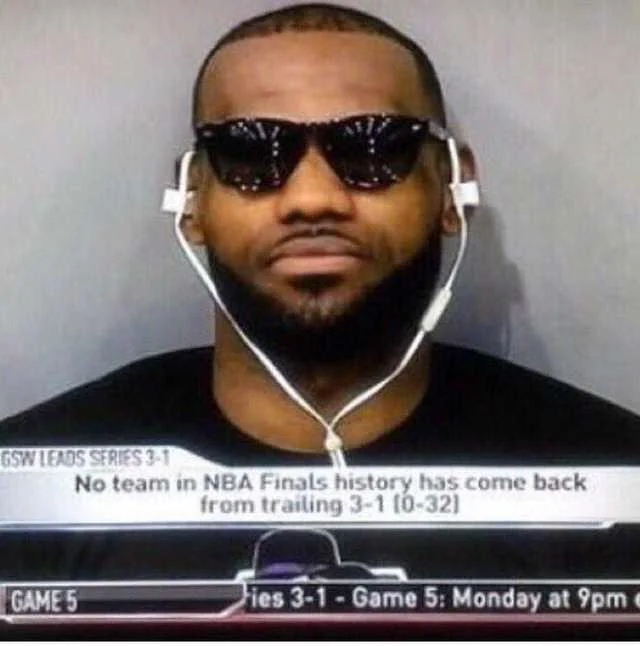
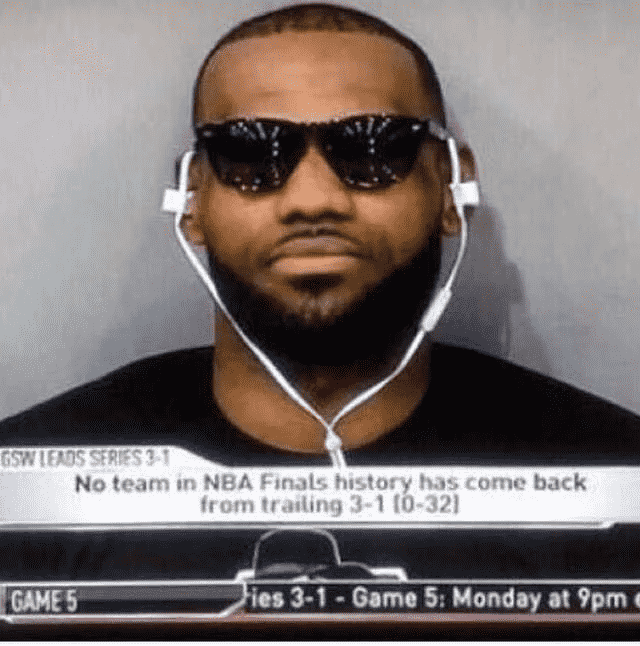
updated photo sizes and added SEO related content to HTML

diff --git a/index.html b/index.html
@@ -4,7 +4,18 @@
 <head>
 	<meta charset="utf-8" />
 	<meta name="viewport" content="width=device-width" />
-	<title>Vibes to Strides || My Programming Journey</title>
+
+	<title>Lucas Colias</title>
+	<meta name="description"
+		content="Portfolio of Lucas Colias, Full Stack Engineer specializing in embedded systems, web applications, and software reliability. Explore projects, experience, and contact info." />
+	<meta name="author" content="Lucas Colias" />
+
+	<!-- Open Graph / Social Sharing -->
+	<meta property="og:title" content="Lucas Colias" />
+	<meta property="og:description" content="Explore the work and projects of Full Stack Engineer Lucas Colias." />
+	<meta property="og:image" content="https://lucascolias.com/images/avi.png" />
+	<meta property="og:url" content="https://lucascolias.com" />
+	<meta name="twitter:card" content="summary_large_image" />
 
 	<link rel="stylesheet" href="web/inter.css">
 	<link rel="stylesheet" href="styles/reset.css">
@@ -18,7 +29,7 @@
 		<header>
 			<h1 id="name">Lucas Colias</h1>
 			<h2 id="title">Full Stack Engineer</h2>
-			<img id="avi" src="images/avi.jpg" alt="A picture of myself">
+			<img id="avi" src="images/avi.png" alt="A picture of myself">
 			<p id="intro">Hey everyone, I'm Lucas. I'm posting my learning journey stuff here. </p>
 
 			<nav>
@@ -289,7 +300,7 @@
 							</ul>
 						</div>
 						<img class="proj-img" src="images/lucascoliascom.png"
-							alt="Portfolio Website">
+							alt="Portfolio Website of Lucas Colias">
 					</li>
 					<li class="proj-item">
 						<div class="proj-bkgd"></div>
@@ -328,7 +339,8 @@
 							<h4>September 2025</h4>
 							<h3>Building a Raspberry Pi Web Server</h3>
 						</div>
-						<img class="media-img" src="images/raspberryServerImg.png" alt="">
+						<img class="media-img" src="images/raspberryServerImg.png"
+							alt="Raspberry Pi Web Server">
 					</li>
 
 				</ul>
@@ -377,8 +389,20 @@
 
 	<!-- Load scripts here -->
 	<script src="scripts/navscripts.js"></script>
-	<!-- script src="scripts/github-projects.js"></script -->
-	<!-- script src="scripts/slide-logic.js"></script -->
+	<script type="application/ld+json">
+	{
+		"@context": "https://schema.org",
+		"@type": "Person",
+		"name": "Lucas Colias",
+		"jobTitle": "Full Stack Engineer",
+		"url": "https://lucascolias.com",
+		"sameAs": [
+			"https://github.com/lcolias",
+			"https://www.linkedin.com/in/lucas-colias/",
+			"https://www.instagram.com/_duke_luke_/"
+		]
+	}
+	</script>
 </body>
 
 </html>
